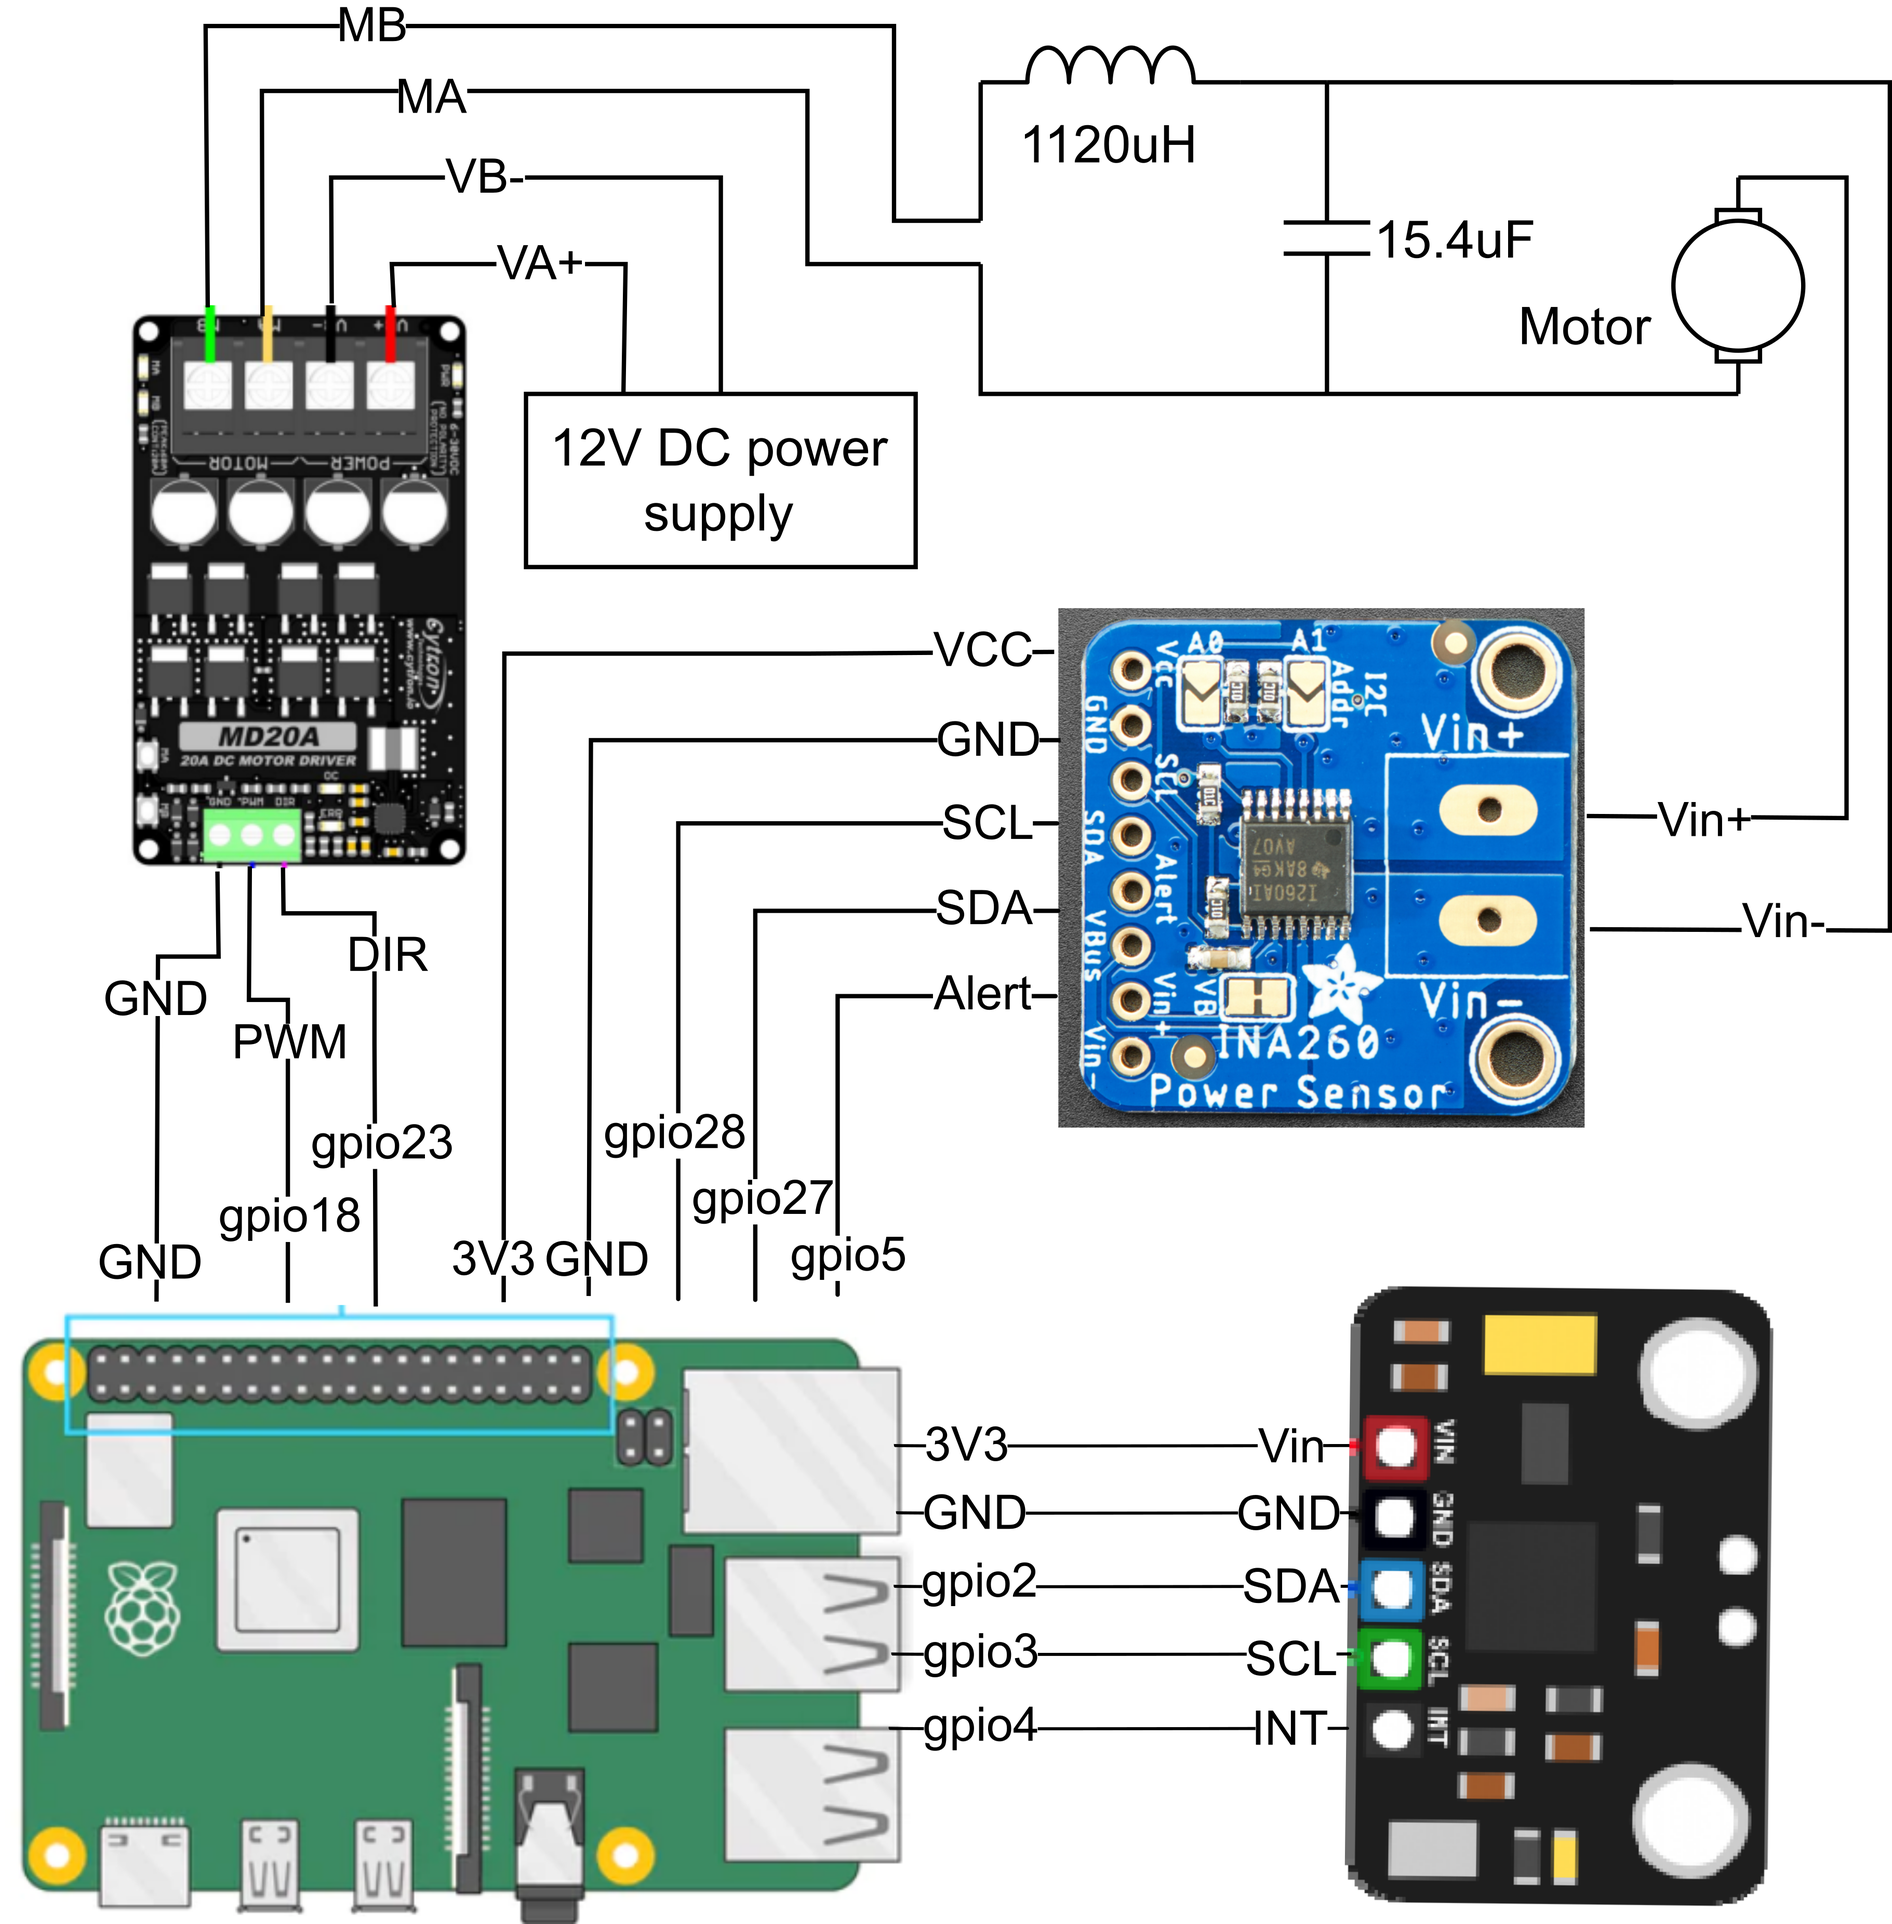
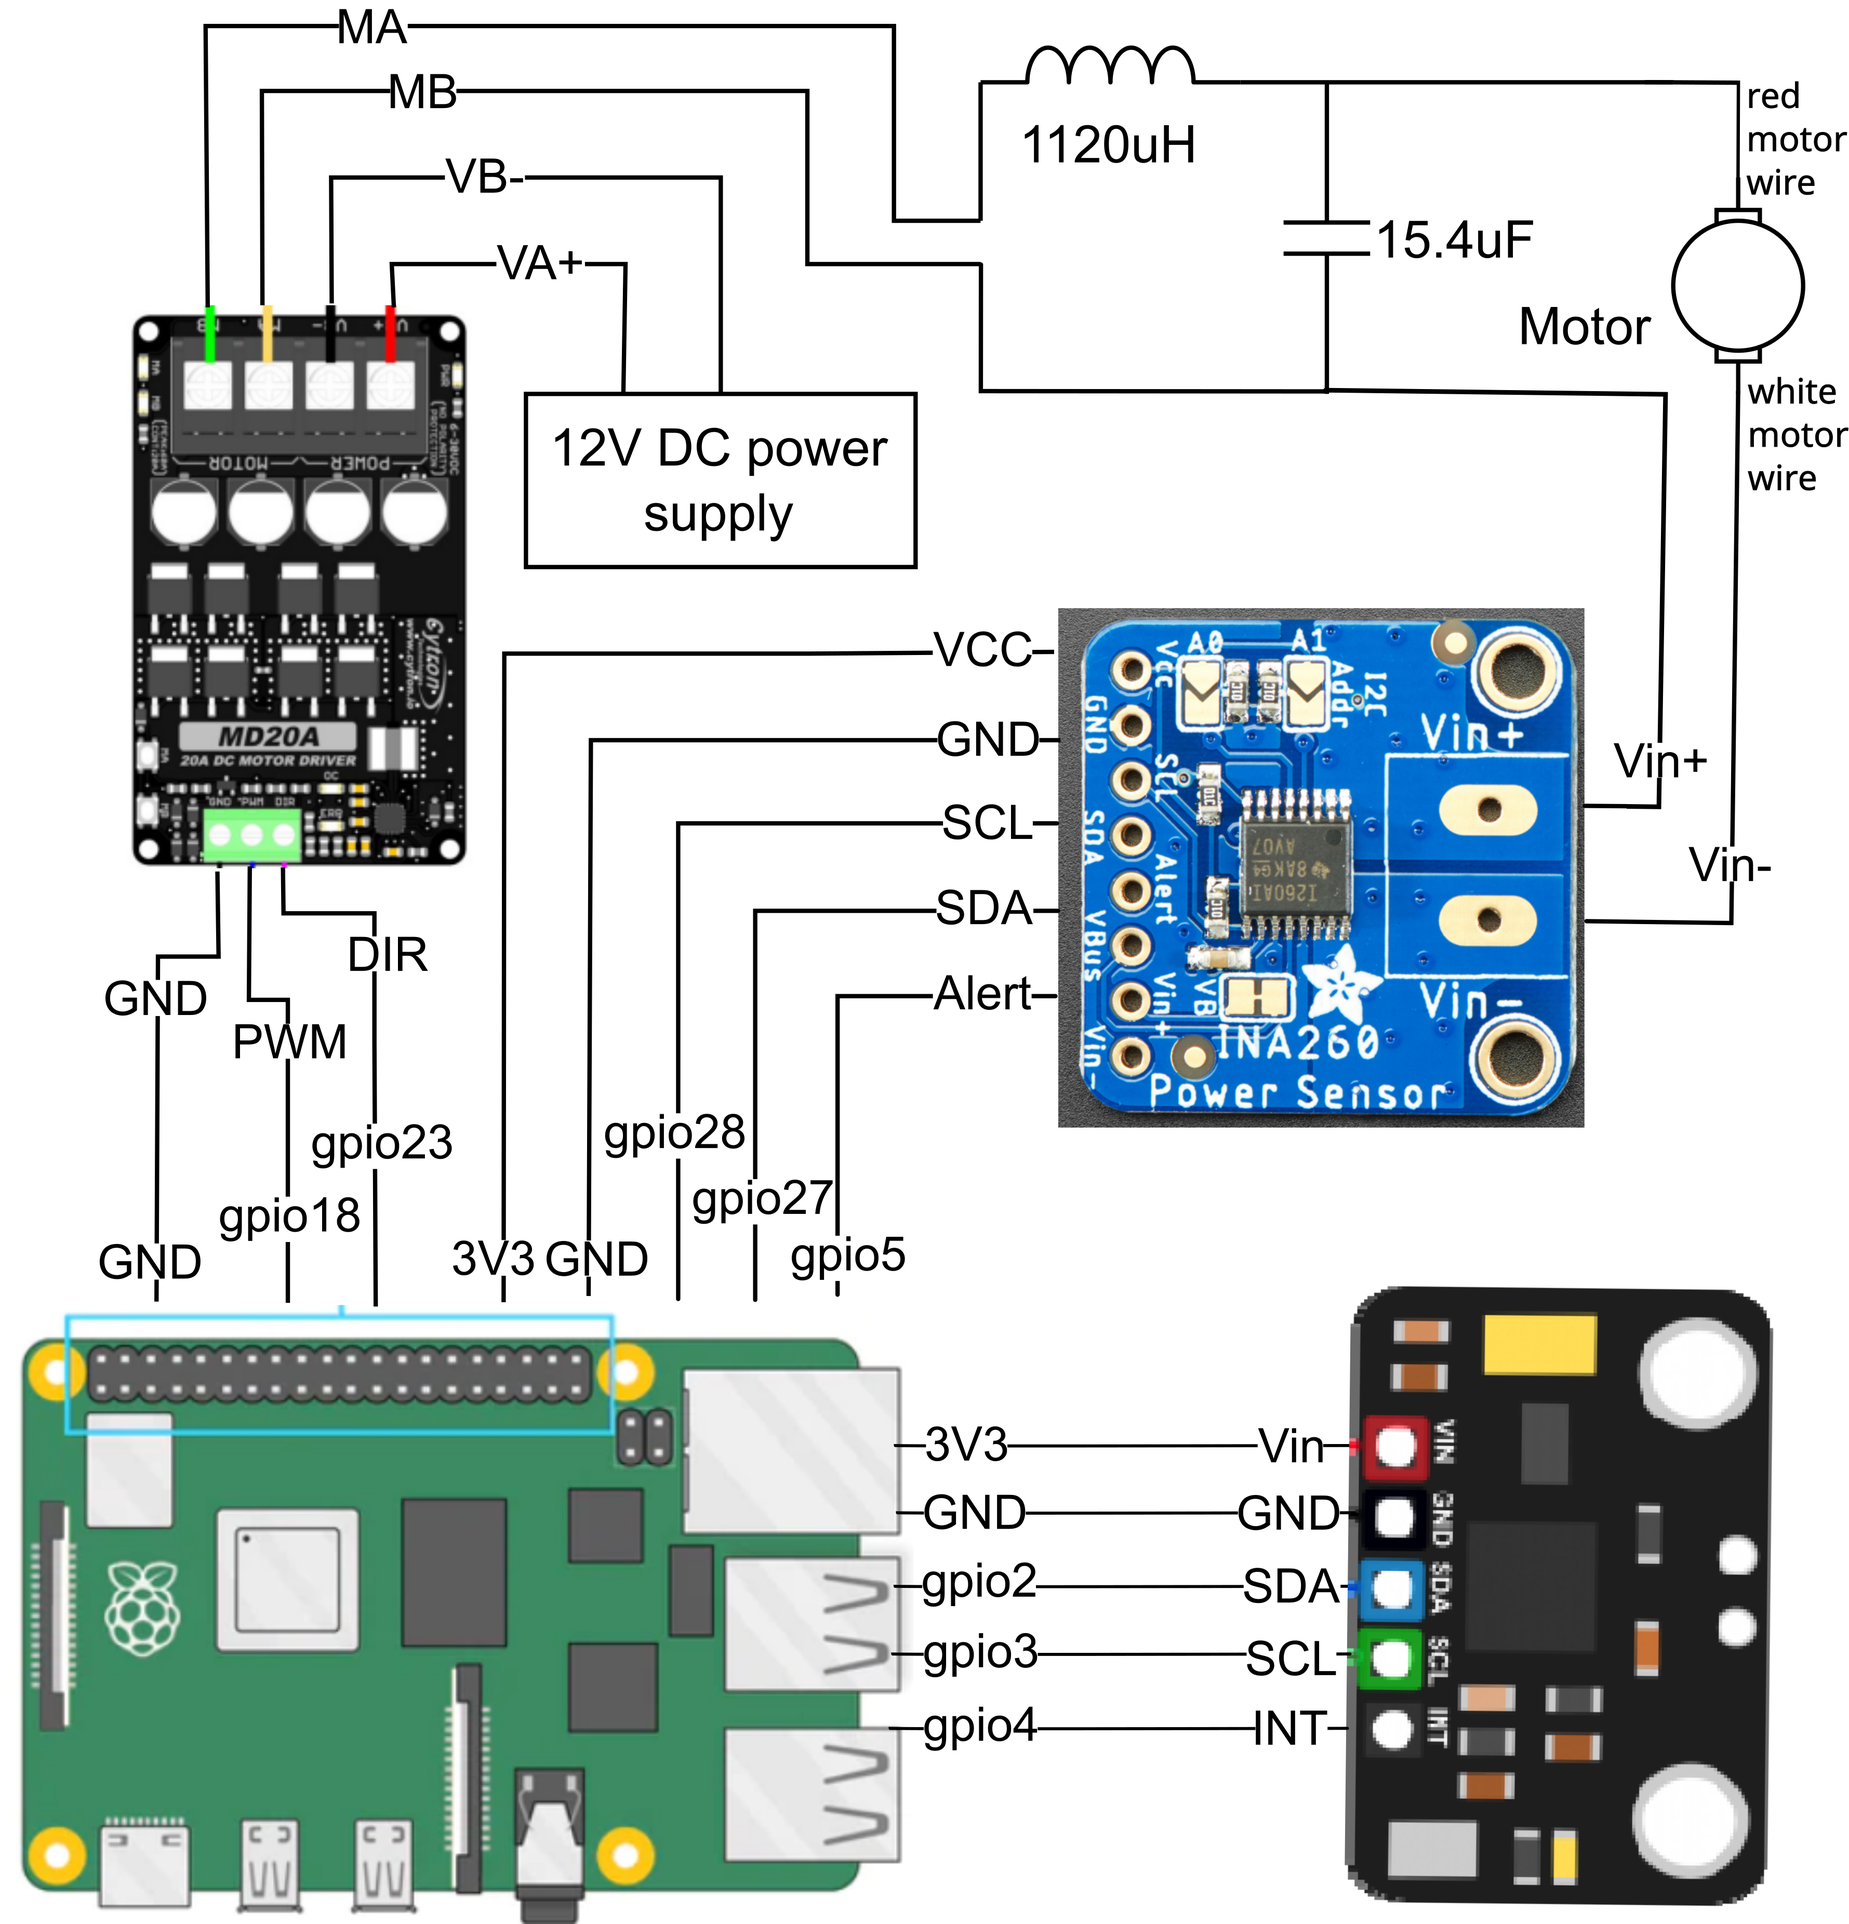
modify circuit with INA after motor, change descriptions in README accordingly and add info about social media

diff --git a/README.md b/README.md
@@ -120,7 +120,7 @@ Documentation for it can be found here [https://www.raspberrypi.com/documentatio
 
 Datasheet can be found here [https://www.ti.com/lit/ds/symlink/ina260.pdf](https://www.ti.com/lit/ds/symlink/ina260.pdf).
 
-Should be connected in series with the motor. Vin+ terminal is connected to V- on the motor and Vin- is connected to the junction between inductors and capacitors of the LC filter. Powered by a 3V3 supply from the Pi. Communicates with the Pi through I2C1 pins (SDA->gpio27, SCL->gpio28) which don't have internal pull-up resistors, but there are pull-up resistors inside the current sensor, so that should not be a problem. The Alert pin is connected to gpio5 on the Pi.
+Should be connected in series with the motor. Vin- terminal is connected to the white wire on the motor and Vin+ is connected to the MB terminal of the motor driver. Powered by a 3V3 supply from the Pi. Communicates with the Pi through I2C1 pins (SDA->gpio27, SCL->gpio28) which don't have internal pull-up resistors, but there are pull-up resistors inside the current sensor, so that should not be a problem. The Alert pin is connected to gpio5 on the Pi.
 
 * Gyro-Acelerometer Sensor - MPU6050. Measures the acceleration of the table in a 2D plane and subtracts the centripetal acceleration from it to get the acceleration due to gravity. Measurements are used for PID motor control. Uses I2C communication protocol for interfacing with Pi.
 
@@ -138,11 +138,11 @@ Uses a 12V external DC power supply connected to VA+ and VB- for delivering powe
 
  Device specifications are mentioned on this website [https://uk.robotshop.com/products/12v-dc-motor-12kg-cm-350rpm-encoder](https://uk.robotshop.com/products/12v-dc-motor-12kg-cm-350rpm-encoder).
 
-The V+ terminal should be connected to the MA terminal on the motor driver, and the V- terminal connected to the Vin+ terminal on the current sensor.
+The  white motor wire should be connected to the Vin- terminal on the INA260, and red motor wire should be connected to the junction between the capacitros and inductors inside the LC filter.
 
 * Low-Pass Filter - LC filter with a cut-off at about 1200Hz to eliminate high-frequency noise coming from the motor driver and Pi PWM signal.
 
-Uses two 560uH choke inductors(`MCAP115018077A-561LU`) after MB terminal on the motor driver in series with the motor and the current sensor. Seven 2.2uF polyester film capacitors(`7212-707`) are connected after inductors in parallel around the current sensor and motor driver. At high frequencies, the inductor becomes very resistive and blocks high-frequency signals from passing into the circuit. The capacitor becomes a short circuit for high-frequency signals. High frequencies flow through it, avoiding the current sensor and the motor. Inductors with a high current rating above 10A and capacitors with a high voltage rating above 20V should be used in this project to prevent damage and burning of the filter. Polarised capacitors cannot be used, as current can flow in both directions in this circuit.
+Uses two 560uH choke inductors(`MCAP115018077A-561LU`) after MA terminal on the motor driver in series with the motor (connect to red motor wire) and the current sensor. Seven 2.2uF polyester film capacitors(`7212-707`) are connected after inductors in parallel around the current sensor and motor driver. At high frequencies, the inductor becomes very resistive and blocks high-frequency signals from passing into the circuit. The capacitor becomes a short circuit for high-frequency signals. High frequencies flow through it, avoiding the current sensor and the motor. Inductors with a high current rating above 10A and capacitors with a high voltage rating above 20V should be used in this project to prevent damage and burning of the filter. Polarised capacitors cannot be used, as current can flow in both directions in this circuit.
 
 
 ## Hardware Assembly
@@ -162,3 +162,11 @@ This image shows the correct position of the gyro-accelerometer on the shakey ta
 
 
 ## CAD Design
+
+# Social Media 
+
+Our project was advertised via Instagram [https://www.instagram.com/antiquakegu/](https://www.instagram.com/antiquakegu/) and Twitter [https://twitter.com/shakey_table](https://twitter.com/shakey_table).
+
+Instagram was our main target. We got 120 followers, out of which 50 were constantly active, reacting on our stories, supporting us in the comments and liking our posts. Our strategy was to start advertysing our project when we were ready to start building and testing our prototype with actual hardware, as general audience is not interested in the coding side of the project on social media. We started advertising our product when we had our project fully planned and ready on the software side. 
+
+We were posting stories of our work on the prototype every 2-3 days (you can see some of them in the highlights section called "project dev"), and tried to guide our audience through different development stages of the protype, share our wins, failiures and soltions to problems we faced on our path. We were also releasing 2 posts a week that summerised our main achievements and familiarised people with what we were actually doing. We tried to make it as non-technical as possible not to bore people with unnessessary details, but we were always happy to answer any questions in the comments.
